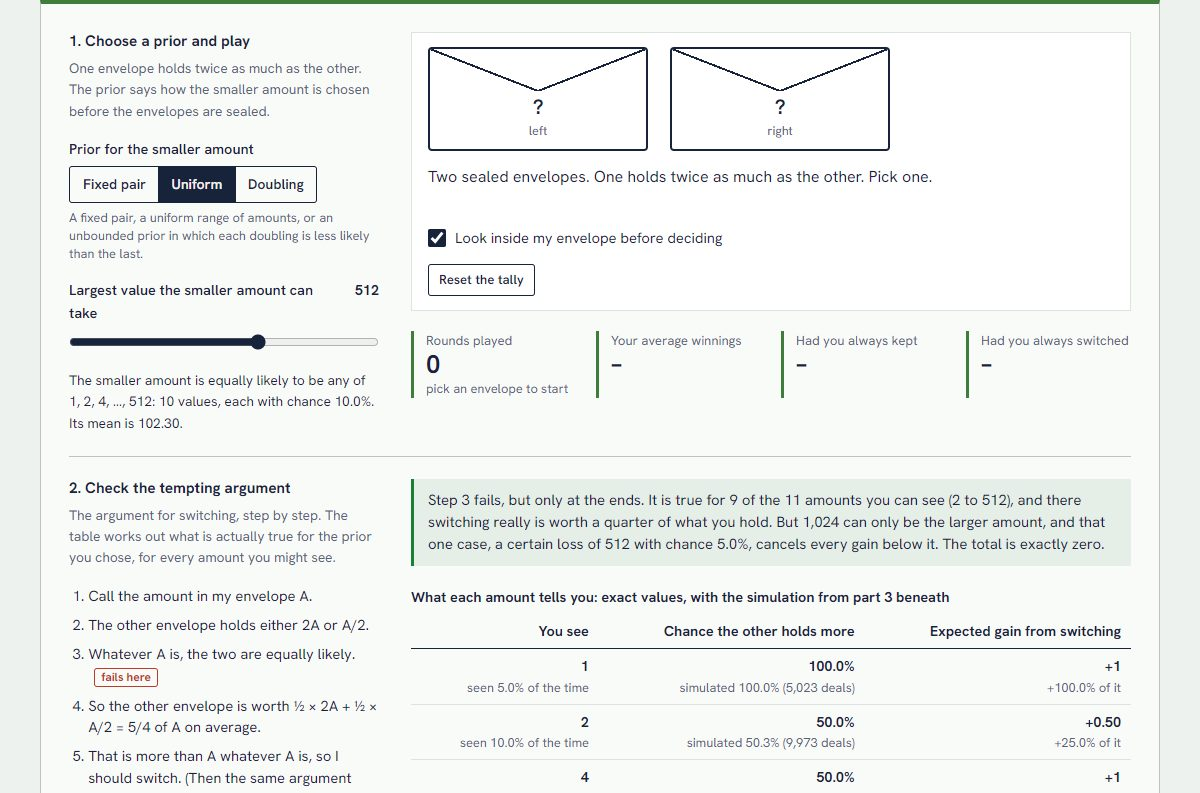
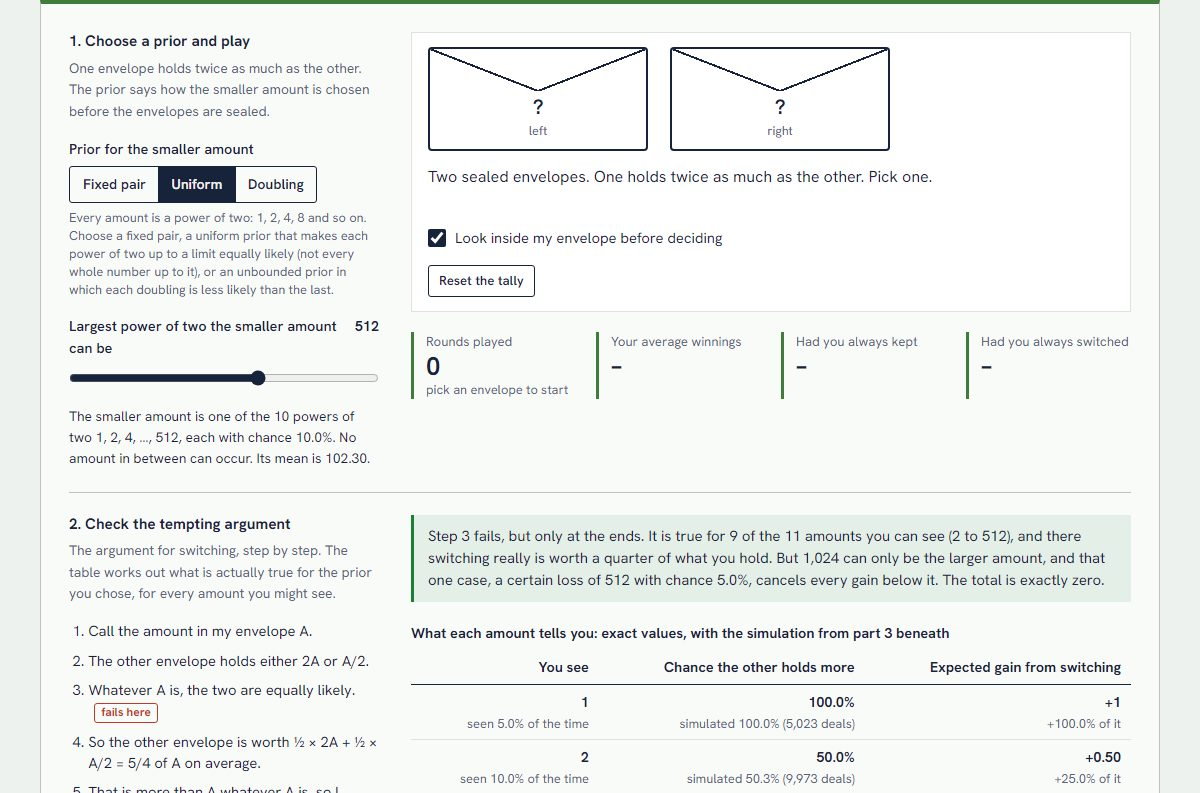
Review project 28: keyboard steps for q, no false error bars, clearer run labels

diff --git a/365projects/28/app.js b/365projects/28/app.js
@@ -1,6 +1,6 @@
 // Day 28: Two Envelopes Paradox. Interface.
 import { $, el, fmt, debounce, mount, slider, select, segmented, checkbox, numberField, button, stat, note, table, chart, rng, randomSeed } from "../kit/kit.js";
-import { meanSmaller, range, weight, seenTable, partialGain, strategyExact, bestThreshold, deal, simulate } from "./logic.js";
+import { meanSmaller, finiteVariance, range, weight, seenTable, partialGain, strategyExact, bestThreshold, deal, simulate } from "./logic.js";
 
 mount();
 
@@ -11,15 +11,22 @@ const prior = () => (state.kind === "fixed" ? { kind: "fixed", n: state.fixedN }
 
 /* ---------- number formats: amounts run from 1 to far beyond a billion ---------- */
 const SUP = "⁰¹²³⁴⁵⁶⁷⁸⁹";
-const sci = (v) => { const [m, e] = Math.abs(v).toExponential(1).split("e"); return `${v < 0 ? "-" : ""}${m} × 10${[...String(Number(e))].map((c) => SUP[c]).join("")}`; };
+const sci = (v) => { const [m, e] = Math.abs(v).toExponential(1).split("e"); return `${v < 0 ? "-" : ""}${m} × 10${[...String(Number(e))].map((c) => (c === "-" ? "⁻" : SUP[c])).join("")}`; };
 const big = (v) => Math.abs(v) >= 1e9;
 const money = (v) => (typeof v !== "number" || Number.isNaN(v) ? "–" : !Number.isFinite(v) ? "infinite" : big(v) ? sci(v) : Number.isInteger(v) ? fmt.int(v) : fmt.num(v, 2));
 const avg = (v) => (typeof v !== "number" || Number.isNaN(v) ? "–" : !Number.isFinite(v) ? "infinite" : big(v) ? sci(v) : Math.abs(v) >= 1e6 ? fmt.int(v) : fmt.num(v, 2));
 const gainFmt = (v) => (v === 0 ? "0" : big(v) ? `${v > 0 ? "+" : ""}${sci(v)}` : fmt.signed(v, Number.isInteger(v) ? 0 : Math.abs(v) >= 100 ? 1 : 2));
-const small = (v) => (v !== 0 && Math.abs(v) < 0.01 ? `${v > 0 ? "+" : ""}${fmt.sig(v, 2)}` : gainFmt(Number(v.toPrecision(3))));
+const small = (v) => (v !== 0 && Math.abs(v) < 0.01 ? `${v > 0 ? "+" : ""}${Math.abs(v) < 1e-6 ? sci(v) : fmt.sig(v, 2)}` : gainFmt(Number(v.toPrecision(3))));
+// A gain too small for two decimals is still not zero, so it is never printed as "0.00".
+const tiny = (v) => v !== 0 && Math.abs(v) < 0.005;
+const cellGain = (v) => (tiny(v) ? small(v) : gainFmt(v));
+const edgeFmt = (v) => (tiny(v) ? small(v) : gainFmt(Number(v.toPrecision(4))));
 const pm = (v, se) => `${v === 0 ? "0" : gainFmt(Number(v.toPrecision(4)))} ± ${fmt.sig(2 * se, 2)}`;
-const pct = (v) => (v > 0 && v < 0.001 ? `${fmt.sig(v * 100, 2)}%` : fmt.pct(v, 1));
-const frac = (q) => (Math.abs(q - 1 / 3) < 1e-12 ? "1/3" : Math.abs(q - 1 / 2) < 1e-12 ? "1/2" : Math.abs(q - 2 / 3) < 1e-12 ? "2/3" : fmt.num(q, 3));
+const pct = (v) => (v > 0 && v < 1e-8 ? "under 0.000001%" : v > 0 && v < 0.001 ? `${fmt.sig(v * 100, 2)}%` : fmt.pct(v, 1));
+// A screen reader announces a slider's raw value (9) unless it is given the readout (512) as its value text.
+const voice = (s) => s.input.setAttribute("aria-valuetext", s.el.querySelector("output").textContent);
+const voiced = (s) => { s.input.addEventListener("input", () => voice(s)); voice(s); return s; };
+const put = (s, v) => { s.value = v; voice(s); };
 const sub = (main, small) => el("span", {}, main, el("span", { class: "te-sub", text: small }));
 
 let sim;   // the latest simulation of the three strategies
@@ -32,29 +39,38 @@ const head = (title, text) => el("div", { class: "te-head" }, el("h3", { text: t
 const kindSeg = segmented({
   label: "Prior for the smaller amount", value: state.kind,
   options: [{ value: "fixed", label: "Fixed pair" }, { value: "uniform", label: "Uniform" }, { value: "doubling", label: "Doubling" }],
-  hint: "A fixed pair, a uniform range of amounts, or an unbounded prior in which each doubling is less likely than the last.",
-  onChange: (v) => { state.kind = v; state.t = bestThreshold(prior()) ?? 5; tSlider.value = state.t; newPrior(); },
+  hint: "Every amount is a power of two: 1, 2, 4, 8 and so on. Choose a fixed pair, a uniform prior that makes each power of two up to a limit equally likely (not every whole number up to it), or an unbounded prior in which each doubling is less likely than the last.",
+  onChange: (v) => { state.kind = v; state.t = bestThreshold(prior()) ?? 5; put(tSlider, state.t); newPrior(); },
 });
-const fixedSlider = slider({
+const fixedSlider = voiced(slider({
   label: "Smaller amount", min: 0, max: 10, step: 1, value: state.fixedN, format: (v) => money(2 ** v),
   onInput: (v) => { state.fixedN = v; newPrior(); },
-});
-const countSlider = slider({
-  label: "Largest value the smaller amount can take", min: 1, max: 14, step: 1, value: state.count - 1, format: (v) => money(2 ** v),
+}));
+const countSlider = voiced(slider({
+  label: "Largest power of two the smaller amount can be", min: 1, max: 14, step: 1, value: state.count - 1, format: (v) => money(2 ** v),
   onInput: (v) => { state.count = v + 1; newPrior(); },
-});
-const qSlider = slider({
-  label: "Ratio q", min: 0.05, max: 0.9, step: "any", value: state.q, format: (v) => fmt.num(v, 3),
+}));
+// The slider counts in steps of 1/120, so that 1/3, 1/2 and 2/3 are exact stops and the arrow keys move it one step in
+// every browser (a slider with step "any" jumps from end to end in Firefox).
+const Q_STEPS = 120;
+const qSlider = voiced(slider({
+  label: "Ratio q", min: 6, max: 108, step: 1, value: Math.round(state.q * Q_STEPS), format: (v) => fmt.num(v / Q_STEPS, 3),
   hint: "Each amount is q times as likely as the one half its size. The mean is finite only when q is below 1/2.",
-  onInput: (v) => { state.q = v; newPrior(); },
-});
-const setQ = (q) => { state.q = q; qSlider.value = q; newPrior(); };
+  onInput: (v) => { state.q = v / Q_STEPS; newPrior(); },
+}));
+const setQ = (q) => { state.q = q; put(qSlider, Math.round(q * Q_STEPS)); newPrior(); };
 const qBox = el("div", { class: "controls" }, qSlider.el,
   el("div", { class: "row" }, button("q = 1/3", () => setQ(1 / 3), { small: true }), button("q = 1/2", () => setQ(1 / 2), { small: true }), button("q = 2/3", () => setQ(2 / 3), { small: true })));
 const priorText = el("p", { class: "small", role: "status" });
 
 const lookBox = checkbox({ label: "Look inside my envelope before deciding", checked: state.look, onChange: (on) => { state.look = on; renderGame(); } });
-const gameBox = el("div", { class: "panel te-game" });
+// The box is built once and only its envelopes, message and buttons are redrawn: the checkbox and the reset button keep
+// the keyboard focus when they are used, and the message is a live region that was on the page before its text changed.
+const envBox = el("div", { class: "te-envs" });
+const gameMsg = el("p", { class: "te-msg", role: "status" });
+const actionBox = el("span", { style: { display: "contents" } });
+const gameBox = el("div", { class: "panel te-game" }, envBox, gameMsg, el("div", { class: "row" }, actionBox, lookBox.el),
+  el("div", { class: "row" }, button("Reset the tally", () => { newGame(); renderGame(); }, { small: true })));
 const sRounds = stat("Rounds played");
 const sYou = stat("Your average winnings");
 const sKeep = stat("Had you always kept");
@@ -71,7 +87,7 @@ function describePrior() {
   if (p.kind === "fixed") return `The envelopes always hold ${money(2 ** p.n)} and ${money(2 ** (p.n + 1))}. Only which is which is left to chance.`;
   if (p.kind === "uniform") {
     const list = p.count <= 4 ? Array.from({ length: p.count }, (_, n) => money(2 ** n)).join(", ") : `1, 2, 4, …, ${money(2 ** (p.count - 1))}`;
-    return `The smaller amount is equally likely to be any of ${list}: ${p.count} values, each with chance ${pct(1 / p.count)}. Its mean is ${avg(mean)}.`;
+    return `The smaller amount is one of the ${p.count} powers of two ${list}, each with chance ${pct(1 / p.count)}. No amount in between can occur. Its mean is ${avg(mean)}.`;
   }
   return `The smaller amount is 1 with chance ${pct(weight(p, 0))}, 2 with chance ${pct(weight(p, 1))}, 4 with chance ${pct(weight(p, 2))}, and so on without limit. Its mean is ${Number.isFinite(mean) ? avg(mean) : "infinite, because q is not below 1/2"}.`;
 }
@@ -132,11 +148,9 @@ function renderGame(focus) {
     actions = [button("Deal again", () => { dealRound(); renderGame("left"); }, { primary: true })];
     actions[0].dataset.act = "again";
   }
-  gameBox.replaceChildren(
-    el("div", { class: "te-envs" }, envelope("left"), envelope("right")),
-    el("p", { class: "te-msg", role: "status", text: message }),
-    el("div", { class: "row" }, actions, lookBox.el),
-    el("div", { class: "row" }, button("Reset the tally", () => { newGame(); renderGame(); }, { small: true })));
+  envBox.replaceChildren(envelope("left"), envelope("right"));
+  gameMsg.textContent = message;
+  actionBox.replaceChildren(...actions);
   const n = t.rounds;
   sRounds.set(fmt.int(n), n ? `kept ${fmt.int(t.kept)}, switched ${fmt.int(t.switched)}` : "pick an envelope to start");
   sYou.set(n ? avg(t.won / n) : "–", n ? `${money(t.won)} in all` : "");
@@ -183,7 +197,7 @@ function renderExact() {
   const body = rows.map((r) => ({
     amount: sub(el("strong", { text: money(r.amount) }), `seen ${pct(r.chance)} of the time`),
     odds: sub(el("strong", { text: pct(r.otherLarger) }), simulated(r.j)),
-    gain: sub(el("strong", { text: gainFmt(r.gain) }), `${fmt.signed(r.share * 100, 1)}% of it`),
+    gain: sub(el("strong", { text: cellGain(r.gain) }), `${fmt.signed(r.share * 100, 1)}% of it`),
   }));
   if (!complete) {
     const r = rows.at(-1);
@@ -241,11 +255,11 @@ function renderExact() {
 
 /* ====================================== 3. strategies over many rounds */
 
-const tSlider = slider({
+const tSlider = voiced(slider({
   label: "Switch only if I see this or less", min: 0, max: 20, step: 1, value: state.t, format: (v) => money(2 ** v),
   onInput: (v) => { state.t = v; rerun(); },
-});
-const bestBtn = button("Use the best threshold", () => { const b = bestThreshold(prior()); if (b != null) { state.t = b; tSlider.value = b; rerun(); } }, { small: true });
+}));
+const bestBtn = button("Use the best threshold", () => { const b = bestThreshold(prior()); if (b != null) { state.t = b; put(tSlider, b); rerun(); } }, { small: true });
 const roundsSel = select({
   label: "Rounds to simulate", value: String(state.rounds),
   options: [1000, 10000, 100000, 1000000].map((n) => ({ value: String(n), label: fmt.int(n) })),
@@ -255,7 +269,7 @@ const seedField = numberField({ label: "Seed", min: 0, max: MAX_SEED, step: 1, v
 const seedMsg = el("div");
 seedField.input.addEventListener("input", () => {
   const v = seedField.value;
-  if (!Number.isInteger(v)) { seedMsg.replaceChildren(note("bad", `The seed must be a whole number from 0 to ${fmt.int(MAX_SEED)}.`)); return; }
+  if (!Number.isInteger(v)) { seedField.input.classList.add("invalid"); seedMsg.replaceChildren(note("bad", `The seed must be a whole number from 0 to ${fmt.int(MAX_SEED)}. The results still use the last valid seed.`)); return; }
   seedMsg.replaceChildren();
   state.seed = v;
   rerun();
@@ -283,6 +297,7 @@ const runChart = chart(runBox, {
 
 function renderStrategies() {
   const p = prior(), x = strategyExact(p, state.t), finite = Number.isFinite(x.keep);
+  const steady = finiteVariance(p); // if not, a standard error for always-switching's gain would mean nothing
   const { first, last } = range(p);
   const T = money(2 ** state.t), best = bestThreshold(p);
   bestBtn.disabled = best == null || best === state.t;
@@ -290,33 +305,36 @@ function renderStrategies() {
   stratBox.replaceChildren(table({
     caption: `${fmt.int(sim.rounds)} simulated rounds, with the exact values`,
     columns: [{ key: "q", label: "Per round" }, { key: "keep", label: "Always keep", num: true }, { key: "swap", label: "Always switch", num: true }, { key: "thr", label: `Switch on ${T} or less`, num: true }],
+    // With an infinite mean the averages are labelled for what they are: the record of one run, not an estimate.
     rows: [
-      { q: "Average winnings, simulated", keep: avg(sim.keep), swap: avg(sim.switch), thr: avg(sim.threshold) },
+      { q: finite ? "Average winnings, simulated" : sub("Average winnings in this run", "not an estimate of anything: the expected value is infinite"), keep: avg(sim.keep), swap: avg(sim.switch), thr: avg(sim.threshold) },
       { q: "Expected winnings, exact", keep: avg(x.keep), swap: avg(x.switch), thr: avg(x.threshold) },
-      { q: "Gain over always keeping, simulated (± 2 standard errors)", keep: "0", swap: finite ? pm(sim.switchGain, sim.switchGainSe) : gainFmt(Number(sim.switchGain.toPrecision(4))), thr: pm(sim.edge, sim.edgeSe) },
-      { q: "Gain over always keeping, exact", keep: "0", swap: finite ? "0" : "not defined", thr: gainFmt(Number(x.edge.toPrecision(4))) },
+      { q: "Gain over always keeping, simulated (± 2 standard errors)", keep: "0", swap: steady ? pm(sim.switchGain, sim.switchGainSe) : sub(gainFmt(Number(sim.switchGain.toPrecision(4))), finite ? "no reliable ±" : "this run only, not an estimate"), thr: pm(sim.edge, sim.edgeSe) },
+      { q: "Gain over always keeping, exact", keep: "0", swap: finite ? "0" : "not defined", thr: edgeFmt(x.edge) },
     ],
   }));
 
   let text;
   const inside = state.t >= first && state.t <= last;
-  const noisy = x.edge > 0 && 2 * sim.edgeSe > x.edge ? ` The simulated gain is ${pm(sim.edge, sim.edgeSe)}: at this threshold it rests on rare, large deals, and ${fmt.int(sim.rounds)} rounds are too few to pin it down.` : "";
+  const noisy = x.edge > 0 && 2 * sim.edgeSe > x.edge ? ` The simulated gain is ${pm(sim.edge, sim.edgeSe)}: the noise in ${fmt.int(sim.rounds)} rounds is larger than the gain itself, so the simulation cannot confirm it.` : "";
   const where = state.t < first
     ? `You never see ${T} or less under this prior, so the rule never switches: it is always-keep under another name.`
     : `You never see more than ${T} under this prior, so the rule always switches.`;
   if (finite) {
     text = inside
-      ? `Keeping and switching tie exactly. The threshold of ${T} lies inside the prior's range, so it beats both by ${gainFmt(Number(x.edge.toPrecision(4)))} a round: whenever the smaller amount is exactly ${T}, you end up with the larger envelope whichever one you were handed.${best !== state.t ? ` The best threshold for this prior is ${money(2 ** best)}.` : " No threshold does better for this prior."}${noisy}`
+      ? `Keeping and switching tie exactly. The threshold of ${T} lies inside the prior's range, so it beats both by ${edgeFmt(x.edge)} a round: whenever the smaller amount is exactly ${T}, you end up with the larger envelope whichever one you were handed.${best !== state.t ? ` The best threshold for this prior is ${money(2 ** best)}.` : " No threshold does better for this prior."}${noisy}`
       : `Keeping and switching tie exactly. ${where} A threshold only helps when it falls inside the prior's range; the best one here is ${money(2 ** best)}.`;
+    if (!steady) text += " At this q the mean is finite but the variance is not (it is infinite from q = 1/4 upwards). The simulated averages therefore close in on the exact values slowly, more slowly the nearer q is to 1/2, and the simulated gain of always switching has no reliable margin of error.";
   } else {
     const largest = 2 ** Math.max(...sim.amounts.keys());
-    text = `Every strategy's expected winnings are infinite, so the simulated averages are not estimates of anything: they are set by the few largest deals (the largest amount seen here was ${money(largest)}) and jump when the seed changes. One comparison is still well defined: the threshold rule's expected gain over always keeping is exactly ${gainFmt(Number(x.edge.toPrecision(4)))} a round, a finite number because that gain can never exceed ${T}.${noisy} ${state.q > 0.5 ? "There is no best threshold: a higher one always gains more." : "Every threshold gains the same."}`;
+    text = `Every strategy's expected winnings are infinite, so the simulated averages are not estimates of anything: they are set by the few largest deals (the largest amount seen here was ${money(largest)}) and jump when the seed changes. One comparison is still well defined: the threshold rule's expected gain over always keeping is exactly ${edgeFmt(x.edge)} a round, a finite number because that gain can never exceed ${T}.${noisy} ${state.q > 0.5 ? "There is no best threshold: a higher one always gains more." : "Every threshold gains the same."}`;
   }
   stratMsg.replaceChildren(note(finite ? (inside ? "good" : "") : "warn", text));
 
   const line = (i) => sim.history.map((h) => [h[0], h[i]]);
+  const cut = finite && sim.history.some((h) => Math.max(h[1], h[2], h[3]) > 2 * x.threshold);
   runChart.update({
-    subtitle: finite ? "The dashed lines are the exact expected winnings." : "Log scale. With an infinite mean the averages keep jumping and never settle.",
+    subtitle: finite ? `The dashed lines are the exact expected winnings.${cut ? " Early averages that swing above the top of the chart are cut off." : ""}` : "Log scale. With an infinite mean the averages keep jumping and never settle: they are not estimates of anything.",
     y: finite
       ? { label: "Average winnings per round", domain: [0, 2 * x.threshold], format: (v) => fmt.compact(v) }
       : { label: "Average winnings per round (log scale)", type: "log", format: (v) => (v >= 1e6 ? sci(v) : fmt.int(v)) },
@@ -343,7 +361,11 @@ function runNow() {
 }
 // A million rounds take a noticeable fraction of a second, so wait for a slider to stop moving before running them.
 const runSoon = debounce(runNow, 150);
-function rerun() { if (state.rounds > 100000) runSoon(); else runNow(); }
+function rerun() {
+  if (state.rounds <= 100000) { runNow(); return; }
+  stratMsg.replaceChildren(note("", `Running ${fmt.int(state.rounds)} rounds…`));
+  runSoon();
+}
 /** The prior changed: show its controls, start the hand-played game again and re-run the simulation. */
 function newPrior() {
   fixedSlider.el.hidden = state.kind !== "fixed";

diff --git a/365projects/28/index.html b/365projects/28/index.html
@@ -55,13 +55,13 @@
 
     <section class="p-sec finding">
       <h2>One finding</h2>
-      <p>When the smaller amount is equally likely to be 1, 2, 4 and so on up to 512, always keeping and always switching both win exactly 153.45 a round on average, while switching only on 512 or less wins 179.05, which is 16.7% more. In 100,000 simulated rounds (seed 28) the three averaged 154.02, 153.43 and 179.16. The claim that the other envelope is as likely to hold double as half is true for nine of the eleven amounts you can see, and false at the top one, 1,024, where switching always loses 512.</p>
+      <p>When the smaller amount is equally likely to be 1, 2, 4 and so on up to 512, always keeping and always switching both win exactly 153.45 a round on average, while switching only on 512 or less wins 179.05, which is 16.7% more. In 100,000 simulated rounds (seed 28) the three averaged 154.02, 153.43 and 179.16. The claim that the other envelope is as likely to hold double as half is true for nine of the eleven amounts you can see. It is false at the two ends: at 1, where the other envelope always holds 2, and at 1,024, where switching always loses 512.</p>
     </section>
 
     <section class="p-sec">
       <h2>The idea</h2>
       <p>You are shown two sealed envelopes and told that one contains twice as much money as the other. You pick one. Before you open it, you are offered the chance to swap. The tempting argument runs: call my amount <var>A</var>; the other envelope holds 2<var>A</var> or <var>A</var>/2, each with probability one half; so it is worth ½ · 2<var>A</var> + ½ · <var>A</var>/2 = 5/4 <var>A</var> on average, and I should swap. The conclusion cannot be right. The envelopes are interchangeable, and once you have swapped the same argument tells you to swap back.</p>
-      <p>The puzzle descends from Maurice Kraitchik's two men arguing over whose necktie cost more. Barry Nalebuff's 1989 puzzle column put the envelope version to economists as a question about trade: two people, each holding one envelope, both of whom seem to gain by exchanging. Philosophers have concentrated on a harder case, set out by John Broome in 1995: a perfectly proper way of choosing the amounts under which swapping really does look better whatever amount you find.</p>
+      <p>The puzzle descends from Maurice Kraitchik's two men arguing over whose necktie cost more. Barry Nalebuff put the envelope version to economists in his puzzle column in 1988 and reviewed their replies in 1989. His version is a question about trade: two people, each holding one envelope, both of whom seem to gain by exchanging. Philosophers have concentrated on a harder case, set out by John Broome in 1995: a perfectly proper way of choosing the amounts under which swapping really does look better whatever amount you find.</p>
       <p>The resolution has two layers, and the tool lets you stand on each. First, the argument never says how the amounts were chosen, and it cannot be right for any ordinary way of choosing them. "Half or double, equally likely, whatever <var>A</var> is" would need every amount to be exactly as probable as the amount twice its size, all the way up and all the way down, and probabilities spread that evenly over infinitely many amounts cannot add up to one. Pick any prior with a finite average and the fifty-fifty step fails somewhere, usually at large amounts, where the envelope in your hand is more likely to be the bigger one.</p>
       <p>Second, there are priors with an <em>infinite</em> average for which the fifty-fifty step is still false but switching gains on average at every single amount. Here the failure moves to the last step: "better whatever I see, therefore better without looking" is a rule for averaging conditional expectations, and it is only valid when the thing being averaged has a finite expectation. This is why the puzzle matters beyond the classroom. "I know nothing about the amounts" is not a prior, and decisions that feel prior-free usually smuggle one in. And decision theory's most trusted shortcut, comparing options by expected value, stops giving answers once expectations are infinite, the same crack that the St Petersburg game opens.</p>
     </section>
@@ -69,13 +69,13 @@
     <section class="p-sec">
       <h2>How it works</h2>
       <h3>The priors</h3>
-      <p>The smaller amount is <var>X</var> = 2<sup><var>n</var></sup> for a whole number <var>n</var> ≥ 0, so every amount is a power of two. Write π(<var>a</var>) for the probability that <var>X</var> = <var>a</var>. The tool offers three families. A <em>fixed pair</em> puts all the probability on one amount. A <em>uniform range</em> makes 1, 2, 4, …, 2<sup><var>N</var>−1</sup> equally likely, with probability 1/<var>N</var> each and mean (2<sup><var>N</var></sup> − 1)/<var>N</var>. The <em>unbounded doubling</em> prior is</p>
+      <p>The smaller amount is <var>X</var> = 2<sup><var>n</var></sup> for a whole number <var>n</var> ≥ 0, so every amount is a power of two. Write π(<var>a</var>) for the probability that <var>X</var> = <var>a</var>. The tool offers three families. A <em>fixed pair</em> puts all the probability on one amount. A <em>uniform</em> prior makes the <var>N</var> powers of two 1, 2, 4, …, 2<sup><var>N</var>−1</sup> equally likely, with probability 1/<var>N</var> each and mean (2<sup><var>N</var></sup> − 1)/<var>N</var>. It is uniform over those <var>N</var> amounts only, not over every whole number up to the largest. The <em>unbounded doubling</em> prior is</p>
       <p class="eq">π(2<sup><var>n</var></sup>) = (1 − <var>q</var>) <var>q</var><sup><var>n</var></sup> &nbsp;&nbsp; for <var>n</var> = 0, 1, 2, …</p>
       <p>so each amount is <var>q</var> times as likely as the one half its size. Its mean is (1 − <var>q</var>) Σ (2<var>q</var>)<sup><var>n</var></sup>, which equals (1 − <var>q</var>)/(1 − 2<var>q</var>) when <var>q</var> &lt; 1/2 and is infinite otherwise. Broome's example is <var>q</var> = 2/3.</p>
       <h3>What an amount tells you</h3>
       <p>You are handed either envelope with probability one half. If you see <var>a</var>, then either <var>X</var> = <var>a</var> and you hold the smaller amount, or <var>X</var> = <var>a</var>/2 and you hold the larger. Bayes' rule gives the chance <var>P</var> that the other envelope holds more, and from it the expected gain <var>G</var> from switching:</p>
       <p class="eq"><var>P</var> = π(<var>a</var>) / (π(<var>a</var>) + π(<var>a</var>/2))<br><var>G</var> = <var>a</var> <var>P</var> − (<var>a</var>/2)(1 − <var>P</var>)</p>
-      <p>For the uniform range <var>P</var> is one half at every amount except the lowest (where it is 1) and the highest (where it is 0), so the tempting argument's 5/4 is exactly right in the middle and badly wrong at the top. For the doubling prior <var>P</var> = <var>q</var>/(1 + <var>q</var>) at every amount above 1, and the expected gain is <var>a</var>(2<var>q</var> − 1)/(2(1 + <var>q</var>)): a loss when <var>q</var> &lt; 1/2, nothing at <var>q</var> = 1/2, a gain when <var>q</var> &gt; 1/2. The table shows these exact values for every amount, beside the share actually observed in the simulation.</p>
+      <p>For the uniform prior <var>P</var> is one half at every amount except the lowest (where it is 1) and the highest (where it is 0), so the tempting argument's 5/4 is exactly right in the middle and badly wrong at the top. For the doubling prior <var>P</var> = <var>q</var>/(1 + <var>q</var>) at every amount above 1, and the expected gain is <var>a</var>(2<var>q</var> − 1)/(2(1 + <var>q</var>)): a loss when <var>q</var> &lt; 1/2, nothing at <var>q</var> = 1/2, a gain when <var>q</var> &gt; 1/2. The table shows these exact values for every amount, beside the share actually observed in the simulation.</p>
       <h3>Why the gains cancel</h3>
       <p>The chance of seeing <var>a</var> is (π(<var>a</var>) + π(<var>a</var>/2))/2. Multiply it by the expected gain and each amount's contribution to always-switching's expected gain is (<var>a</var> π(<var>a</var>) − (<var>a</var>/2) π(<var>a</var>/2))/2. Add these from the lowest amount upwards and every term cancels against the next, leaving</p>
       <p class="eq">total up to amount <var>a</var> = <var>a</var> π(<var>a</var>) / 2</p>
@@ -87,7 +87,7 @@
       <p class="eq">E(threshold) = 1.5 E(<var>X</var>) + <var>T</var> π(<var>T</var>) / 2</p>
       <p>which beats both fixed strategies whenever <var>T</var> is an amount the prior can produce, and equals them otherwise. The extra term is finite even when E(<var>X</var>) is not.</p>
       <h3>The simulation</h3>
-      <p>Each round draws <var>n</var> from the prior and tosses a fair coin for which envelope you are handed, using a seeded generator, and scores all three strategies on the same deal. For the doubling prior <var>n</var> is the whole part of ln(1 − <var>u</var>)/ln <var>q</var> for a uniform <var>u</var>, which has exactly the probabilities above. The hand-played game uses the same model with its own stream of deals.</p>
+      <p>Each round draws <var>n</var> from the prior and tosses a fair coin for which envelope you are handed, using a seeded generator, and scores all three strategies on the same deal. For the doubling prior <var>n</var> is the whole part of ln(1 − <var>u</var>)/ln <var>q</var> for a uniform <var>u</var>, which has the probabilities above, as closely as a generator with 32 bits allows. The slider for <var>q</var> moves in steps of 1/120, so that 1/3, 1/2 and 2/3 are exact. Beside each simulated gain the table gives twice its standard error, with one exception. Under the doubling prior the square of <var>X</var> has mean (1 − <var>q</var>) Σ (4<var>q</var>)<sup><var>n</var></sup>, which is infinite once <var>q</var> reaches 1/4. From there up to 1/2 the mean is finite but the variance is not: the averages still converge on the exact values, slowly, and a standard error for the gain from always switching would mean nothing, so none is printed. The threshold rule's gain can never exceed <var>T</var>, so its standard error is always sound. The hand-played game uses the same model with its own stream of deals.</p>
     </section>
 
     <section class="p-sec">
@@ -117,13 +117,13 @@
     <section class="p-sec">
       <h2>Sources</h2>
       <ul class="refs">
-        <li>Kraitchik, M. <em>Mathematical Recreations</em>. The puzzle of the two neckties.</li>
+        <li>Kraitchik, M. (1953). <em>Mathematical Recreations</em>. Dover (first published by W. W. Norton, 1942). The puzzle of the two neckties.</li>
         <li>Nalebuff, B. (1989). Puzzles: the other person's envelope is always greener. <em>Journal of Economic Perspectives</em>, 3(1), 171-181.</li>
         <li>Christensen, R., and Utts, J. (1992). Bayesian resolution of the "exchange paradox". <em>The American Statistician</em>, 46(4), 274-276.</li>
         <li>Broome, J. (1995). The two-envelope paradox. <em>Analysis</em>, 55(1), 6-11.</li>
-        <li>Clark, M., and Shackel, N. (2000). The two-envelope paradox. <em>Mind</em>, 109, 415-442.</li>
+        <li>Clark, M., and Shackel, N. (2000). The two-envelope paradox. <em>Mind</em>, 109(435), 415-442.</li>
         <li>Chalmers, D. J. (2002). The St. Petersburg two-envelope paradox. <em>Analysis</em>, 62(2), 155-157.</li>
-        <li>Cover, T. M. (1987). Pick the largest number. In T. M. Cover and B. Gopinath (eds.), <em>Open Problems in Communication and Computation</em>. Springer.</li>
+        <li>Cover, T. M. (1987). Pick the largest number. In T. M. Cover and B. Gopinath (eds.), <em>Open Problems in Communication and Computation</em>, p. 152. Springer.</li>
       </ul>
     </section>
   </main>

diff --git a/365projects/28/logic.js b/365projects/28/logic.js
@@ -50,6 +50,16 @@ export function meanSmaller(prior) {
 }
 
 /**
+ * Whether X has a finite variance. For the doubling prior E[X²] = (1 − q) Σ (4q)^n, which converges only when q < 1/4.
+ * Between 1/4 and 1/2 the mean is finite and the variance is not: averages still converge, but slowly, and a standard
+ * error computed from a sample of anything that scales with X means nothing.
+ */
+export function finiteVariance(prior) {
+  need(prior);
+  return prior.kind !== "doubling" || prior.q < 0.25;
+}
+
+/**
  * What seeing the amount 2^j tells you. Null if that amount can never be seen.
  *   chance        P(you see 2^j) = [P(X = 2^j) + P(X = 2^(j−1))] / 2
  *   otherLarger   P(the other envelope holds more | you see 2^j) = P(X = 2^j) / [P(X = 2^j) + P(X = 2^(j−1))]
@@ -72,8 +82,11 @@ export function seen(prior, j) {
     chance = (here + below) / 2;
     otherLarger = here / (here + below);
   }
-  const gain = amount * otherLarger - (amount / 2) * (1 - otherLarger);
-  return { j, amount, chance, otherLarger, gain, share: gain / amount, contribution: chance * gain };
+  // P − (1 − P)/2, written as (3P − 1)/2 so that P = 1/3 (the doubling prior at q = 1/2) gives exactly zero and not a
+  // rounding error, while P = 1, 1/2, 1/4 and 0 still give exact shares.
+  const share = (3 * otherLarger - 1) / 2;
+  const gain = amount * share;
+  return { j, amount, chance, otherLarger, gain, share, contribution: chance * gain };
 }
 
 /** Every amount that can be seen, lowest first, cut off after `limit` rows. complete is false if there are more. */
